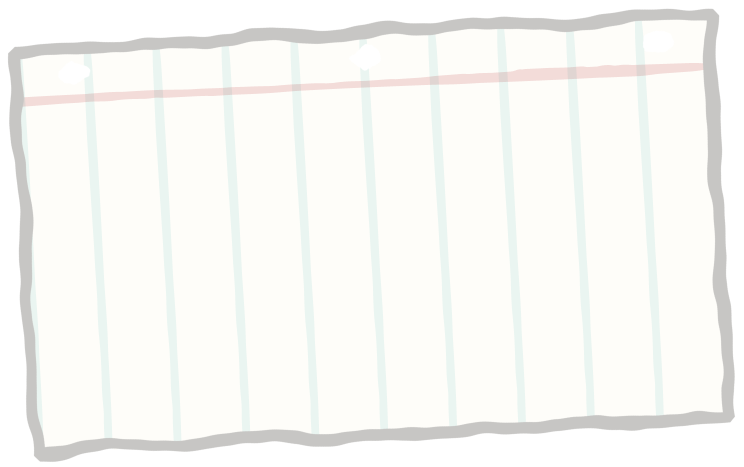
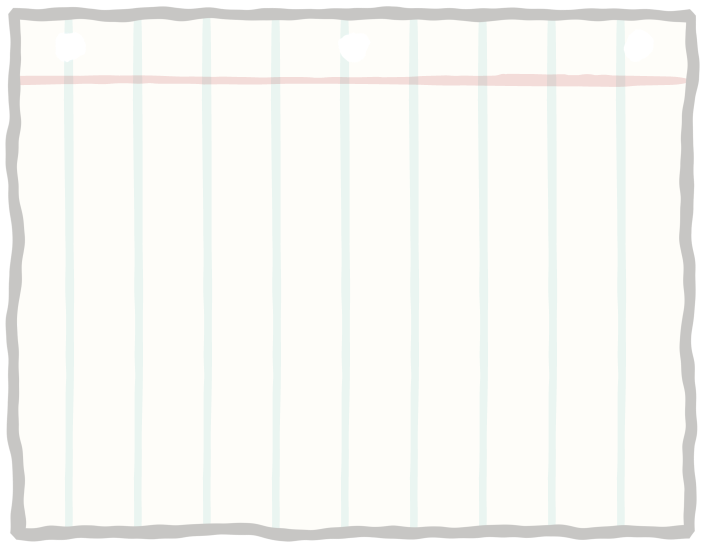
assets cropped

Changed region(s): [[0.0, 0.0, 1.0, 0.8094], [0.0, 0.2398, 1.0, 0.9893]]

diff --git a/cork_e_2/lib/screens/login_screen.dart b/cork_e_2/lib/screens/login_screen.dart
@@ -1,0 +1,241 @@
+import 'package:flutter/material.dart';
+import 'package:provider/provider.dart';
+import '../services/auth_service.dart';
+import '../widgets/corkboard_background.dart';
+import '../utils/theme.dart';
+import 'sign_up_screen.dart';
+import 'profile_home_screen.dart';
+
+class LoginScreen extends StatefulWidget {
+  const LoginScreen({super.key});
+
+  @override
+  State<LoginScreen> createState() => _LoginScreenState();
+}
+
+class _LoginScreenState extends State<LoginScreen> {
+  final _formKey = GlobalKey<FormState>();
+  final _emailController = TextEditingController();
+  final _passwordController = TextEditingController();
+  bool _rememberMe = false;
+  bool _isLoading = false;
+
+  @override
+  void dispose() {
+    _emailController.dispose();
+    _passwordController.dispose();
+    super.dispose();
+  }
+
+  Future<void> _handleEmailAuth() async {
+    if (!_formKey.currentState!.validate()) return;
+
+    setState(() => _isLoading = true);
+
+    try {
+      final authService = Provider.of<AuthService>(context, listen: false);
+      final user = await authService.signInWithEmailPassword(
+        _emailController.text.trim(),
+        _passwordController.text,
+      );
+
+      if (user != null && mounted) {
+      Navigator.pushReplacement(
+        context,
+        MaterialPageRoute(builder: (_) => const ProfileHomeScreen()),
+      );
+}
+    } catch (e) {
+      if (mounted) {
+        ScaffoldMessenger.of(context).showSnackBar(
+          SnackBar(content: Text(e.toString())),
+        );
+      }
+    } finally {
+      if (mounted) setState(() => _isLoading = false);
+    }
+  }
+
+  Future<void> _handleGoogleSignIn() async {
+    setState(() => _isLoading = true);
+    try {
+      final authService = Provider.of<AuthService>(context, listen: false);
+      await authService.signInWithGoogle();
+    } catch (e) {
+      if (mounted) {
+        ScaffoldMessenger.of(context).showSnackBar(
+          SnackBar(content: Text(e.toString())),
+        );
+      }
+    } finally {
+      if (mounted) setState(() => _isLoading = false);
+    }
+  }
+
+@override
+Widget build(BuildContext context) {
+  return Scaffold(
+    body: CorkboardBackground(
+      child: Center(
+        child: SingleChildScrollView(
+          child: Container(
+            width: 400,
+            margin: const EdgeInsets.all(32),
+            child: Stack(
+              clipBehavior: Clip.none, // Allows tape to render outside
+              alignment: Alignment.center,
+              children: [
+                // 1. The resizable background image
+                Image.asset(
+                  'assets/images/sticky_note.png',
+                  fit: BoxFit.fill, // Stretches the image to fill the container
+                  // This is the key! It tells Flutter how to stretch the image.
+                  centerSlice: const Rect.fromLTRB(90, 3, 682, 591), // Adjust these values!
+                ),
+
+                // 2. The tape positioned on top
+                Positioned(
+                  top: -15,
+                  left: 100,
+                  right: 100,
+                  child: Container(
+                    height: 30,
+                    color: RetroTheme.tape.withOpacity(0.7),
+                  ),
+                ),
+
+                // 3. The form content with padding to fit inside the note
+                Padding(
+                  // Increased padding to account for the image's shadow
+                  padding: const EdgeInsets.symmetric(horizontal: 50, vertical: 60),
+                    child: Form(
+                      key: _formKey,
+                      child: Column(
+                        mainAxisSize: MainAxisSize.min,
+                        children: [
+                          Text(
+                            'Log In to CorkE',
+                            style: TextStyle(
+                              fontSize: 28,
+                              fontWeight: FontWeight.bold,
+                              color: RetroTheme.blackMarker,
+                            ),
+                          ),
+                          Text(
+                            '(Your Digital Scrapbook - Reimagined)',
+                            style: TextStyle(
+                              fontSize: 16,
+                              fontStyle: FontStyle.italic,
+                              color: RetroTheme.blackMarker.withOpacity(0.7),
+                            ),
+                          ),
+                          const SizedBox(height: 32),
+                          TextFormField(
+                            controller: _emailController,
+                            decoration: const InputDecoration(
+                              labelText: 'EMAIL ADDRESS',
+                              hintText: 'johndoe@example.com',
+                            ),
+                            keyboardType: TextInputType.emailAddress,
+                            validator: (value) {
+                              if (value == null || value.isEmpty) return 'Please enter your email';
+                              if (!value.contains('@')) return 'Please enter a valid email';
+                              return null;
+                            },
+                          ),
+                          const SizedBox(height: 16),
+                          TextFormField(
+                            controller: _passwordController,
+                            decoration: const InputDecoration(
+                              labelText: 'PASSWORD',
+                              hintText: '••••••••',
+                            ),
+                            obscureText: true,
+                            validator: (value) {
+                              if (value == null || value.isEmpty) return 'Please enter your password';
+                              if (value.length < 6) return 'Password must be at least 6 characters';
+                              return null;
+                            },
+                          ),
+                          const SizedBox(height: 24),
+                          SizedBox(
+                            width: double.infinity,
+                            child: ElevatedButton(
+                              onPressed: _isLoading ? null : _handleEmailAuth,
+                              style: ElevatedButton.styleFrom(
+                                backgroundColor: RetroTheme.blackMarker,
+                                padding: const EdgeInsets.symmetric(vertical: 16),
+                              ),
+                              child: _isLoading
+                                  ? const CircularProgressIndicator(color: Colors.white)
+                                  : const Text('PROCEED'),
+                            ),
+                          ),
+                          const SizedBox(height: 16),
+                          // Navigation below email login
+                          TextButton(
+                            onPressed: () {
+                              Navigator.push(
+                                context,
+                                MaterialPageRoute(builder: (_) => const SignUpScreen()),
+                              );
+                            },
+                            child: Text(
+                              "Don't have an account? Sign Up",
+                              style: TextStyle(
+                                color: RetroTheme.blackMarker.withOpacity(0.7),
+                                decoration: TextDecoration.underline,
+                              ),
+                            ),
+                          ),
+                          const SizedBox(height: 24),
+                          // Google sign in
+                          SizedBox(
+                            width: double.infinity,
+                            child: OutlinedButton.icon(
+                              onPressed: _isLoading ? null : _handleGoogleSignIn,
+                              style: OutlinedButton.styleFrom(
+                                backgroundColor: Colors.white,
+                                padding: const EdgeInsets.symmetric(vertical: 12, horizontal: 16),
+                                side: const BorderSide(color: Colors.grey),
+                                minimumSize: const Size(200, 0),
+                              ),
+                              icon: SizedBox(
+                                width: 24,
+                                height: 24,
+                                child: Image.asset(
+                                  'assets/images/google_logo.png',
+                                  fit: BoxFit.contain,
+                                ),
+                              ),
+                              label: const Text(
+                                'Sign in with Google',
+                                style: TextStyle(color: Colors.black87),
+                                overflow: TextOverflow.ellipsis,
+                              ),
+                            ),
+                          ),
+                        ],
+                      ),
+                    ),
+                  ),
+                ],
+              ),
+            ),
+          ),
+        ),
+      ),
+      bottomNavigationBar: Container(
+        padding: const EdgeInsets.all(16),
+        child: Text(
+          '© 2025 All Rights Reserved. CorkE',
+          textAlign: TextAlign.center,
+          style: TextStyle(
+            color: RetroTheme.blackMarker.withOpacity(0.5),
+            fontSize: 12,
+          ),
+        ),
+      ),
+    );
+  }
+}
